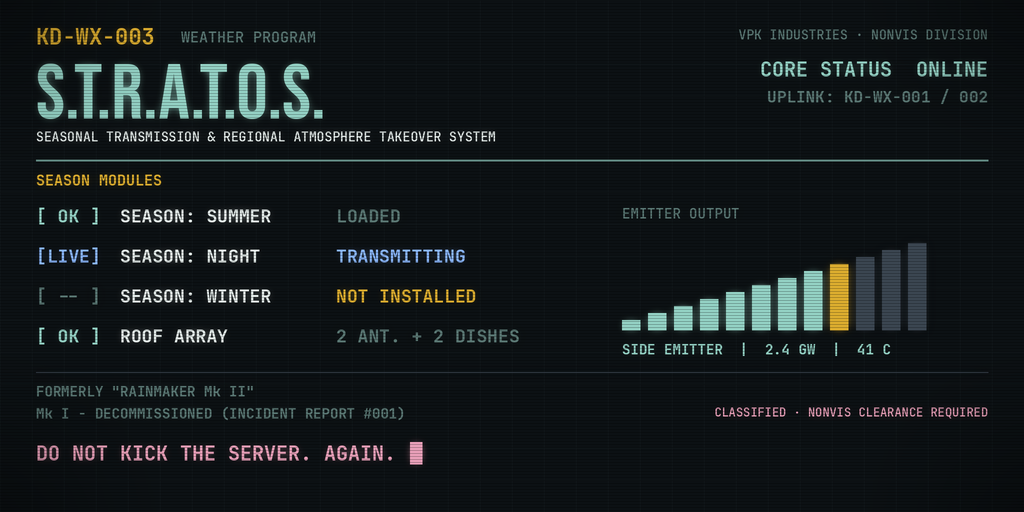
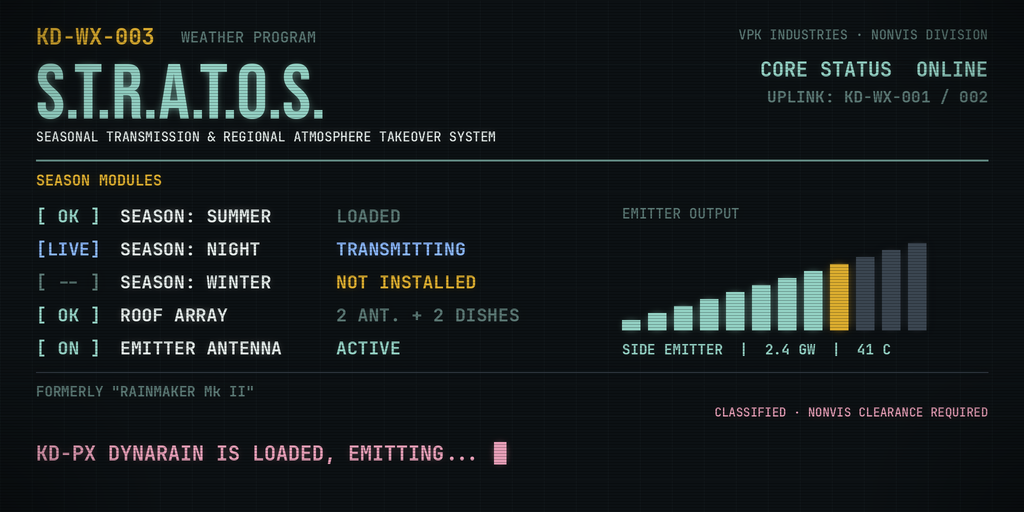
S.T.R.A.T.O.S. screen: emitter antenna module and a DynaRain status line
Drop the "Do not kick the server" line and the Mk I line from the screen.

Claude-Session: https://claude.ai/code/session_01TPtXe8YEjXWuXNmFgmXabW

diff --git a/tools/noclip_screens.py b/tools/noclip_screens.py
@@ -79,8 +79,9 @@ screen("KD-WX-002","WEATHER PROGRAM","F.O.R.E.C.A.S.T.","FULLY OVERRIDDEN RANDOM
 def stratos_body(t):
     y=px(204)
     for tag,tc,name,val,vc in (("[ OK ]",TEAL,"SEASON: SUMMER","LOADED",DIM),("[LIVE]",BLUE,"SEASON: NIGHT","TRANSMITTING",BLUE),
-                               ("[ -- ]",DIM,"SEASON: WINTER","NOT INSTALLED",YELLOW),("[ OK ]",TEAL,"ROOF ARRAY","2 ANT. + 2 DISHES",DIM)):
-        t.text((M,y),tag,font=mono(18),fill=tc); t.text((M+px(84),y),name,font=mono(18),fill=WHITE); t.text((M+px(300),y),val,font=mono(18),fill=vc); y+=px(40)
+                               ("[ -- ]",DIM,"SEASON: WINTER","NOT INSTALLED",YELLOW),("[ OK ]",TEAL,"ROOF ARRAY","2 ANT. + 2 DISHES",DIM),
+                               ("[ ON ]",TEAL,"EMITTER ANTENNA","ACTIVE",TEAL)):
+        t.text((M,y),tag,font=mono(18),fill=tc); t.text((M+px(84),y),name,font=mono(18),fill=WHITE); t.text((M+px(300),y),val,font=mono(18),fill=vc); y+=px(33)
     x2=W//2+px(110)
     t.text((x2,px(204)),"EMITTER OUTPUT",font=mono(14,'SemiBold'),fill=DIM)
     for i in range(12):
@@ -90,8 +91,8 @@ def stratos_body(t):
 screen("KD-WX-003","WEATHER PROGRAM","S.T.R.A.T.O.S.","SEASONAL TRANSMISSION & REGIONAL ATMOSPHERE TAKEOVER SYSTEM",
        [("CORE STATUS  ONLINE",TEAL),("UPLINK: KD-WX-001 / 002",DIM)],
        "SEASON MODULES",stratos_body,
-       ['FORMERLY "RAINMAKER Mk II"','Mk I - DECOMMISSIONED (INCIDENT REPORT #001)'],
-       "DO NOT KICK THE SERVER. AGAIN.","noclip/kd-wx-003_stratos_1024x512.png")
+       ['FORMERLY "RAINMAKER Mk II"'],
+       "KD-PX DYNARAIN IS LOADED, EMITTING...","noclip/kd-wx-003_stratos_1024x512.png")
 
 # ---------- KD-MCS-001 V.I.G.I.L. ----------
 ASSETS=[f"LMP-{i:03d}" for i in range(1,7)]

diff --git a/README.md b/README.md
@@ -465,7 +465,7 @@ OASIS facility posters, the recruitment and showcase posters of NONVIS-001 (code
 | Screen header | `VPK INDUSTRIES · NONVIS DIVISION`, with the program name below it |
 | Warning | `CLASSIFIED · NONVIS CLEARANCE REQUIRED` |
 | Machine plate | `MODEL KD-WX-003 · DESIGNED BY KDANY · OPERATED BY NONVIS DIVISION` |
-| S.T.R.A.T.O.S. screen | `FORMERLY "RAINMAKER Mk II"` and `Mk I - DECOMMISSIONED (INCIDENT REPORT #001)` |
+| S.T.R.A.T.O.S. screen | `FORMERLY "RAINMAKER Mk II"`, five modules (summer, night, winter, roof array, emitter antenna: `ACTIVE`) and the status line `KD-PX DYNARAIN IS LOADED, EMITTING...` |
 | Wall (optional) | `EST. IN THE GOLDSRC ERA AS BSP INDUSTRIES` |
 | Barrel / tank | `KD-PX-001 · Kd₂O · SYNTHETIC PRECIPITATION AGENT · DO NOT DRINK` |
 | Cooled tank | `KD-PX-005 · Kd₂O(s) · CRYSTALLINE PHASE · KEEP BELOW 0 °K… WAIT, NO.` (the wrong unit is on purpose) |
